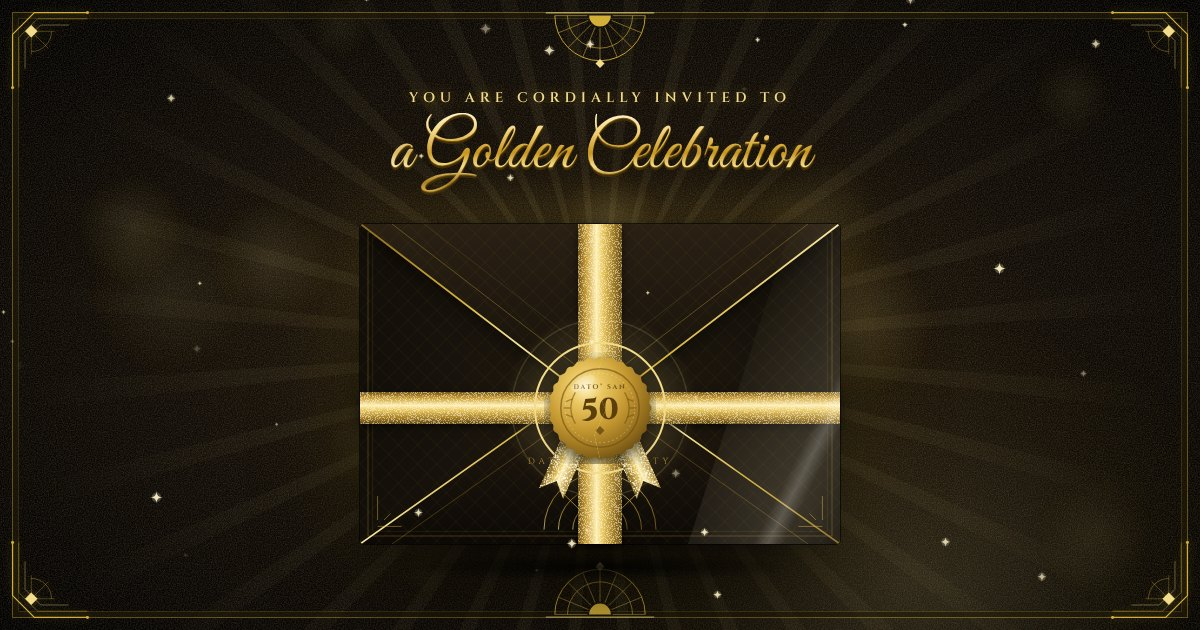
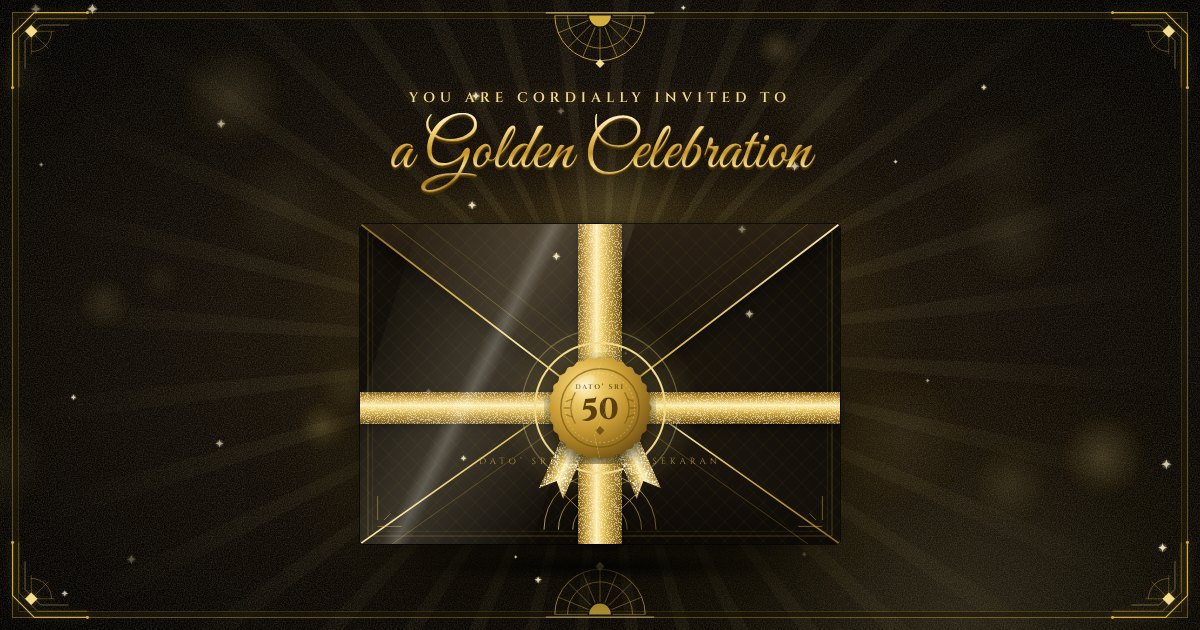
Use the full name Dato' Sri G. Sandra Sekaran throughout
- Hero name on two lines (Dato' Sri / G. Sandra Sekaran), still hand-written in gold
- Envelope card, seal, envelope engraving, invitation, closing, page title,
  link preview, calendar entry, wishes text and photo descriptions updated
- Refreshed WhatsApp preview image

Claude-Session: https://claude.ai/code/session_01FkwHnyVjChCh5J8SJKUnKP

diff --git a/index.html b/index.html
@@ -3,15 +3,15 @@
 <head>
   <meta charset="utf-8">
   <meta name="viewport" content="width=device-width, initial-scale=1, viewport-fit=cover">
-  <title>Dato’ San · 50th Birthday Celebration</title>
-  <meta name="description" content="Join us in celebrating 50 wonderful years of Dato’ Sandra Sekaran @ Dato’ San · 28 December 2026 · Gajaa at 8, Bangsar Park.">
+  <title>Dato’ Sri G. Sandra Sekaran · 50th Birthday Celebration</title>
+  <meta name="description" content="Join us in celebrating 50 wonderful years of Dato’ Sri G. Sandra Sekaran · 28 December 2026 · Gajaa at 8, Bangsar Park.">
   <meta name="theme-color" content="#0a0806">
 
   <!-- Link previews (WhatsApp, Facebook) -->
   <meta property="og:type" content="website">
-  <meta property="og:title" content="Dato’ San · 50 Years of Life, Love & Beautiful Memories">
+  <meta property="og:title" content="Dato’ Sri G. Sandra Sekaran · 50 Years of Life, Love & Beautiful Memories">
   <meta property="og:description" content="You are cordially invited · Monday, 28 December 2026 · 7.00 PM · Gajaa at 8, Bangsar Park">
-  <meta property="og:image" content="https://datosan50-emolycreations.netlify.app/assets/og-cover.jpg">
+  <meta property="og:image" content="https://datosan50-emolycreations.netlify.app/assets/og-cover.jpg?v=2">
   <meta property="og:image:width" content="1200">
   <meta property="og:image:height" content="630">
   <meta property="og:url" content="https://datosan50-emolycreations.netlify.app/">
@@ -21,7 +21,7 @@
   <link rel="preconnect" href="https://fonts.googleapis.com">
   <link rel="preconnect" href="https://fonts.gstatic.com" crossorigin>
   <link href="https://fonts.googleapis.com/css2?family=Cinzel:wght@400;500;600;700;800&family=Cinzel+Decorative:wght@400;700;900&family=Cormorant+Garamond:ital,wght@0,400;0,500;0,600;1,400;1,500&family=Great+Vibes&display=swap" rel="stylesheet">
-  <link rel="stylesheet" href="css/style.css?v=14">
+  <link rel="stylesheet" href="css/style.css?v=15">
 </head>
 <body class="locked">
 
@@ -91,7 +91,7 @@
       <path d="M-22 14 Q-30 0 -22 -14 M22 14 Q30 0 22 -14" fill="none" stroke="#6b4d12" stroke-opacity=".55" stroke-width="1.2"/>
       <path d="M-25 8l-5-2M-27 0h-5M-25 -8l-5 2M25 8l5-2M27 0h5M25 -8l5 2" stroke="#6b4d12" stroke-opacity=".5" stroke-width="1.2" stroke-linecap="round"/>
       <text y="9.5" text-anchor="middle" font-family="Cinzel, serif" font-weight="800" font-size="27" fill="#5a3f0c">50</text>
-      <text y="-17" text-anchor="middle" font-family="Cinzel, serif" font-weight="700" font-size="6" letter-spacing="1.5" fill="#5a3f0c" fill-opacity=".8">DATO’ SAN</text>
+      <text y="-17" text-anchor="middle" font-family="Cinzel, serif" font-weight="700" font-size="6" letter-spacing="1.5" fill="#5a3f0c" fill-opacity=".8">DATO’ SRI</text>
       <path d="M-4 20l4 4 4-4-4-4z" fill="#5a3f0c" fill-opacity=".7"/>
       <ellipse cx="-15" cy="-22" rx="12" ry="5" fill="#fff" fill-opacity=".22" transform="rotate(-30 -15 -22)"/>
     </symbol>
@@ -147,7 +147,7 @@
             <svg class="env__card-fan"><use href="#i-fan"/></svg>
             <span class="env__card-top">Celebrating</span>
             <span class="env__card-50 foil">50</span>
-            <span class="env__card-name">Dato’ San</span>
+            <span class="env__card-name">Dato’ Sri G. Sandra Sekaran</span>
             <span class="env__card-date">28 · 12 · 2026</span>
           </div>
         </div>
@@ -174,7 +174,7 @@
             <path d="M-70 30 A70 70 0 0 1 70 30"/><path d="M-52 30 A52 52 0 0 1 52 30"/><path d="M-34 30 A34 34 0 0 1 34 30"/>
             <path d="M0 30 L0 -40 M0 30 L-50 -19 M0 30 L50 -19 M0 30 L-27 -34 M0 30 L27 -34"/>
           </g>
-          <text x="300" y="300" text-anchor="middle" font-family="Cinzel, serif" font-size="11" letter-spacing="5" fill="#d4af37" fill-opacity=".75">DATO’ SAN · FIFTY</text>
+          <text x="300" y="300" text-anchor="middle" font-family="Cinzel, serif" font-size="11" letter-spacing="5" fill="#d4af37" fill-opacity=".75">DATO’ SRI G. SANDRA SEKARAN</text>
           <g fill="none" stroke="#d4af37" stroke-opacity=".6" stroke-width="1">
             <path d="M22 370 V340 M22 378 H52 M30 370 l8 -8"/><path d="M578 370 V340 M578 378 H548 M570 370 l-8 -8"/>
           </g>
@@ -237,7 +237,7 @@
           </svg>
           <div class="arch__content">
             <p class="eyebrow hero__eyebrow rise">The Golden Celebration of</p>
-            <h1 class="hero__name"><span class="foil">Dato’ San</span></h1>
+            <h1 class="hero__name"><span class="foil hero__name-1">Dato’ Sri</span><span class="foil hero__name-2">G. Sandra Sekaran</span></h1>
             <p class="hero__tagline">
               <span class="rise">50 Years of Life, Love</span>
               <span class="rise">&amp; Beautiful Memories</span>
@@ -280,8 +280,7 @@
         <p class="invite__lead reveal">A milestone this special deserves to be celebrated with the people who have made the journey meaningful.</p>
 
         <p class="invite__body reveal">With immense love and happiness,<br>the family of</p>
-        <h2 class="invite__name reveal">Dato’ Sandra Sekaran</h2>
-        <p class="invite__aka reveal"><span class="foil">@ Dato’ San</span></p>
+        <h2 class="invite__name invite__name--solo reveal">Dato’ Sri G. Sandra Sekaran</h2>
         <p class="invite__body reveal">cordially invites you to join us in celebrating <strong>50 wonderful years</strong> of a life filled with love, laughter, achievements and cherished memories.</p>
         <p class="invite__body reveal">Let’s come together to make this milestone celebration a truly unforgettable one.</p>
       </div>
@@ -419,7 +418,7 @@
 
           <div class="field">
             <label for="fWish">Birthday Wishes <small>(optional)</small></label>
-            <textarea id="fWish" name="wish" rows="3" maxlength="400" placeholder="A few words for Dato’ San…"></textarea>
+            <textarea id="fWish" name="wish" rows="3" maxlength="400" placeholder="A few words for Dato’ Sri…"></textarea>
           </div>
 
           <!-- Spam trap: real guests never see this -->
@@ -479,7 +478,7 @@
       </div>
 
       <p class="closing__love reveal"><span class="foil">With love,</span></p>
-      <p class="closing__family reveal">Family of Dato’ Sandra Sekaran<br><span>@ Dato’ San</span></p>
+      <p class="closing__family reveal">Family of<br><span>Dato’ Sri G. Sandra Sekaran</span></p>
       <p class="credit">Designed by <span id="designedBy"></span></p>
     </footer>
   </main>
@@ -501,8 +500,8 @@
     <button class="lightbox__btn lightbox__next" id="lbNext" type="button" aria-label="Next photo"><svg><use href="#i-next"/></svg></button>
   </div>
 
-  <script src="js/config.js?v=14"></script>
-  <script src="js/fx.js?v=14"></script>
-  <script src="js/app.js?v=14"></script>
+  <script src="js/config.js?v=15"></script>
+  <script src="js/fx.js?v=15"></script>
+  <script src="js/app.js?v=15"></script>
 </body>
 </html>

diff --git a/js/config.js b/js/config.js
@@ -7,8 +7,8 @@
  */
 window.EVENT = {
   // --- Names ---
-  honoree: "Dato’ Sandra Sekaran",
-  honoreeShort: "Dato’ San",
+  honoree: "Dato’ Sri G. Sandra Sekaran",
+  honoreeShort: "Dato’ Sri G. Sandra Sekaran",
   monogram: "DS",
 
   // --- Date & time (Malaysia time, +08:00) ---
@@ -38,11 +38,11 @@ window.EVENT = {
   // Put photos in assets/photos/ and fill in src. Empty src = placeholder frame.
   // focus = which part of the photo stays visible when cropped ("x% y%").
   gallery: [
-    { src: "assets/photos/dato-san-1.webp", focus: "32% 30%", alt: "Dato’ San in white, smiling with a thumbs-up at a festive evening" },
-    { src: "assets/photos/dato-san-2.webp", focus: "62% 40%", alt: "Dato’ San on the golf course at sunset" },
-    { src: "assets/photos/dato-san-3.webp", focus: "50% 62%", alt: "Dato’ San with arms wide open in Uçhisar, Cappadocia" },
-    { src: "assets/photos/dato-san-4.webp", focus: "50% 38%", alt: "Dato’ San standing with arms crossed outside a garden market" },
-    { src: "assets/photos/dato-san-5.webp", focus: "46% 42%", alt: "Dato’ San framed through a carved marble window" }
+    { src: "assets/photos/dato-san-1.webp", focus: "32% 30%", alt: "Dato’ Sri G. Sandra Sekaran in white, smiling with a thumbs-up at a festive evening" },
+    { src: "assets/photos/dato-san-2.webp", focus: "62% 40%", alt: "Dato’ Sri G. Sandra Sekaran on the golf course at sunset" },
+    { src: "assets/photos/dato-san-3.webp", focus: "50% 62%", alt: "Dato’ Sri G. Sandra Sekaran with arms wide open in Uçhisar, Cappadocia" },
+    { src: "assets/photos/dato-san-4.webp", focus: "50% 38%", alt: "Dato’ Sri G. Sandra Sekaran standing with arms crossed outside a garden market" },
+    { src: "assets/photos/dato-san-5.webp", focus: "46% 42%", alt: "Dato’ Sri G. Sandra Sekaran framed through a carved marble window" }
   ],
 
   // --- Further details ---

diff --git a/css/style.css b/css/style.css
@@ -1,5 +1,5 @@
 /* ============================================================
-   Dato’ San · 50th Birthday — rich gold & black, art-deco
+   Dato’ Sri G. Sandra Sekaran · 50th Birthday — rich gold & black, art-deco
    ============================================================ */
 :root {
   --black: #070504;
@@ -1128,3 +1128,12 @@ body.typing .dock { transform: translate(-50%, 160%); transition-delay: 0s; }
 .stepper--sm .stepper__btn { width: 38px; height: 38px; font-size: 20px; }
 .stepper output { min-width: 34px; text-align: center; font-family: var(--f-deco); font-weight: 700; font-size: 26px; line-height: 1; color: var(--gold-lt); font-variant-numeric: tabular-nums; }
 .stepper output.bump { animation: bump .35s var(--ease); }
+
+/* Full name in the hero: two lines, "Dato’ Sri" over "G. Sandra Sekaran" */
+.hero__name { display: flex; flex-direction: column; align-items: center; font-size: clamp(46px, 13vw, 92px); line-height: 1.12; }
+.hero__name .foil { display: block; }
+.hero__name-2 { font-size: .7em; margin-top: -.04em; }
+body.opened .hero__name .hero__name-2 { animation-delay: 0s, 1.1s; }
+.invite__name--solo { margin-bottom: 22px; }
+.env__card-name { font-size: clamp(17px, 5vw, 28px); padding: 0 6px; }
+.closing__family span { display: inline-block; margin-top: 2px; font-size: 1.5em; line-height: 1.3; }

diff --git a/js/app.js b/js/app.js
@@ -258,7 +258,7 @@
   function calendar() {
     $('#btnCal').addEventListener('click', function () {
       function utc(d) { return d.toISOString().replace(/[-:]/g, '').replace(/\.\d{3}/, ''); }
-      var title = (C.honoreeShort || '') + '’s 50th Birthday Celebration';
+      var title = (C.honoreeShort || '') + ' · 50th Birthday Celebration';
       var loc = [venue.name, venue.address].filter(Boolean).join(', ');
       var esc = function (s) { return String(s).replace(/([,;\\])/g, '\\$1'); };
       var ics = [
@@ -461,7 +461,7 @@
     var box = $('#wishList');
     box.textContent = '';
     if (!wishList.length) {
-      box.appendChild(el('p', 'wishes__empty', 'No wishes yet. Be the first to send Dato’ San a birthday wish with your RSVP!'));
+      box.appendChild(el('p', 'wishes__empty', 'No wishes yet. Be the first to send Dato’ Sri a birthday wish with your RSVP!'));
       $('#wishCount').textContent = '';
       return;
     }

diff --git a/README.md b/README.md
@@ -1,6 +1,6 @@
-# Dato’ San · 50th Birthday Invitation
+# Dato’ Sri G. Sandra Sekaran · 50th Birthday Invitation
 
-Digital invitation for the 50th birthday celebration of Dato’ Sandra Sekaran @ Dato’ San.
+Digital invitation for the 50th birthday celebration of Dato’ Sri G. Sandra Sekaran.
 Theme: rich gold & black. Static site (HTML/CSS/JS), no build step.
 
 ## Flow
@@ -10,7 +10,7 @@ Theme: rich gold & black. Static site (HTML/CSS/JS), no build step.
    stamps onto it and light sweeps across the foil. Tapping the seal cracks it in two with a burst of gold,
    the ribbon slides away, the flap opens to reveal a gold-glitter lining, the gold-edged card rises
    and comes forward in a golden flash, and the page appears under falling confetti.
-2. **Hero**: a grand art-deco gold arch draws itself, "Dato’ San" writes itself in embossed gold foil,
+2. **Hero**: a grand art-deco gold arch draws itself, "Dato’ Sri G. Sandra Sekaran" writes itself (two lines) in embossed gold foil,
    and gold fireworks burst behind the text. The **AI video** sits below in a bevelled gold picture frame
    (an animated gold "50" stands in until it's added).
 3. **Gold ribbon** scrolling "Fifty Years · Life · Love · Laughter · Achievements · Cherished Memories".
